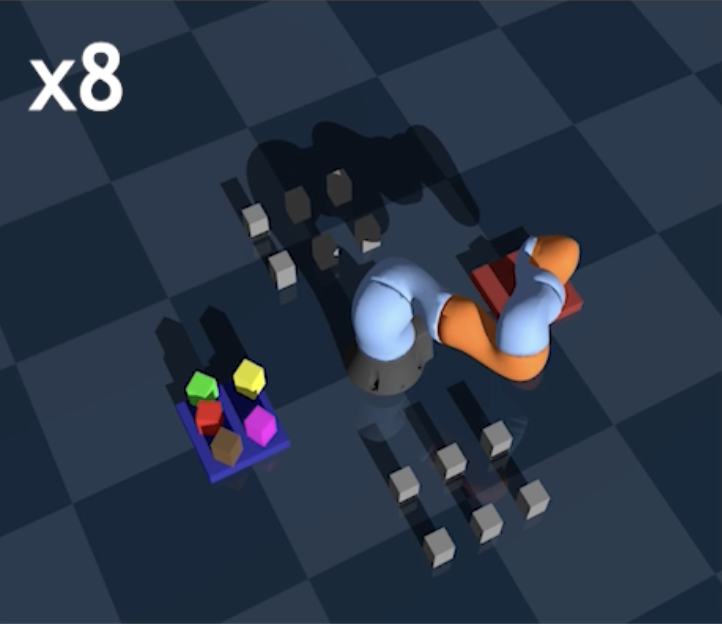
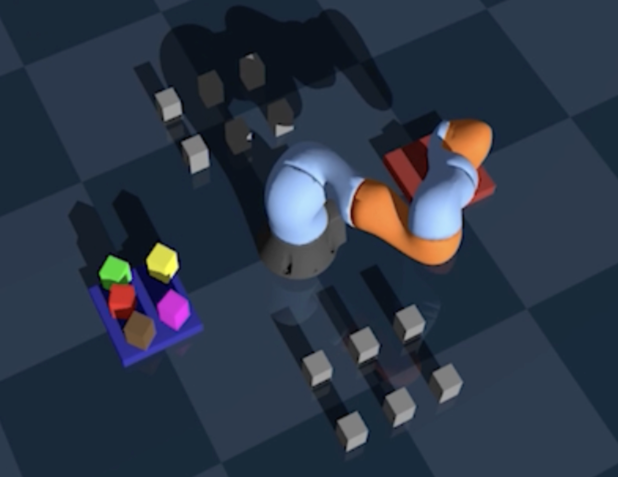
update

diff --git a/_publications/2025/ijrr25.md b/_publications/2025/ijrr25.md
@@ -2,7 +2,7 @@
 title:          "A Dataset and Benchmark for Robotic Cloth Unfolding Grasp Selection: The ICRA 2024 Cloth Competition"
 date:           2025-8-22 00:01:00 +0800
 selected:       true
-pub:            "The International Journal of Robotics Research (IJRR), Accepted"
+pub:            "The International Journal of Robotics Research (IJRR)"
 pub_date:       "2025"
 abstract: >-
 cover:          /assets/images/covers/cloth_competition.png

diff --git a/_publications/2025/icra26.md b/_publications/2025/icra26.md
@@ -2,8 +2,8 @@
 title:          "Kinodynamic Task and Motion Planning using VLM-guided and Interleaved Sampling"
 date:           2025-10-30 00:01:00 +0800
 selected:       true
-pub:            "arXiv preprint"
-pub_date:       "2025"
+pub:            "IEEE International Conference on Robotics and Automation (ICRA), Accepted"
+pub_date:       "2026"
 abstract: >-
 cover:          /assets/images/covers/icra26_cover.png
 authors:

diff --git a/_news/2026-news1.md b/_news/2026-news1.md
@@ -1,0 +1,5 @@
+---
+title: >-
+    <a href="https://arxiv.org/abs/2510.26139" target="_blank">Our paper</a> has been accepted to IEEE ICRA 2026
+date: 2026-01-31 10:00:00 -0800
+---
